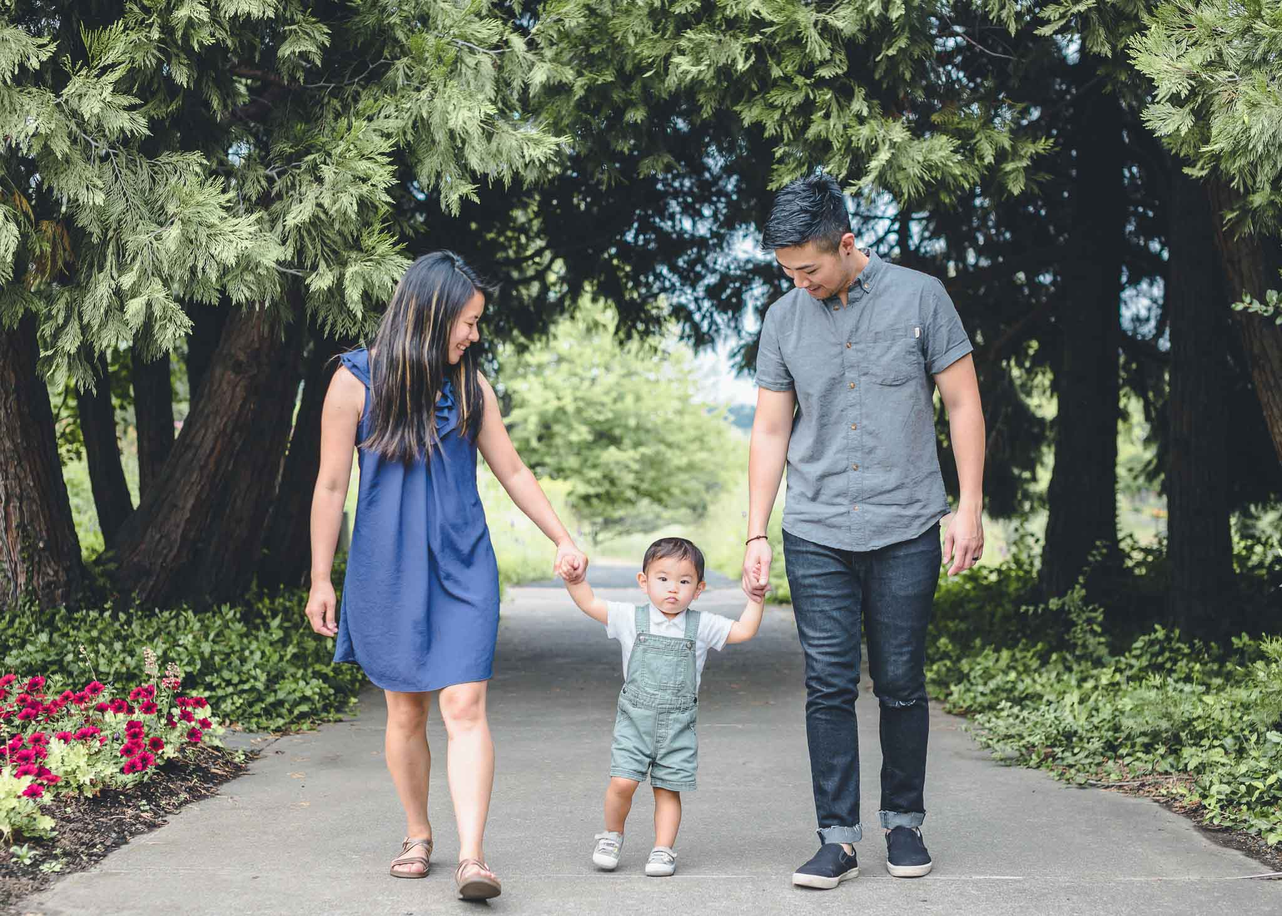
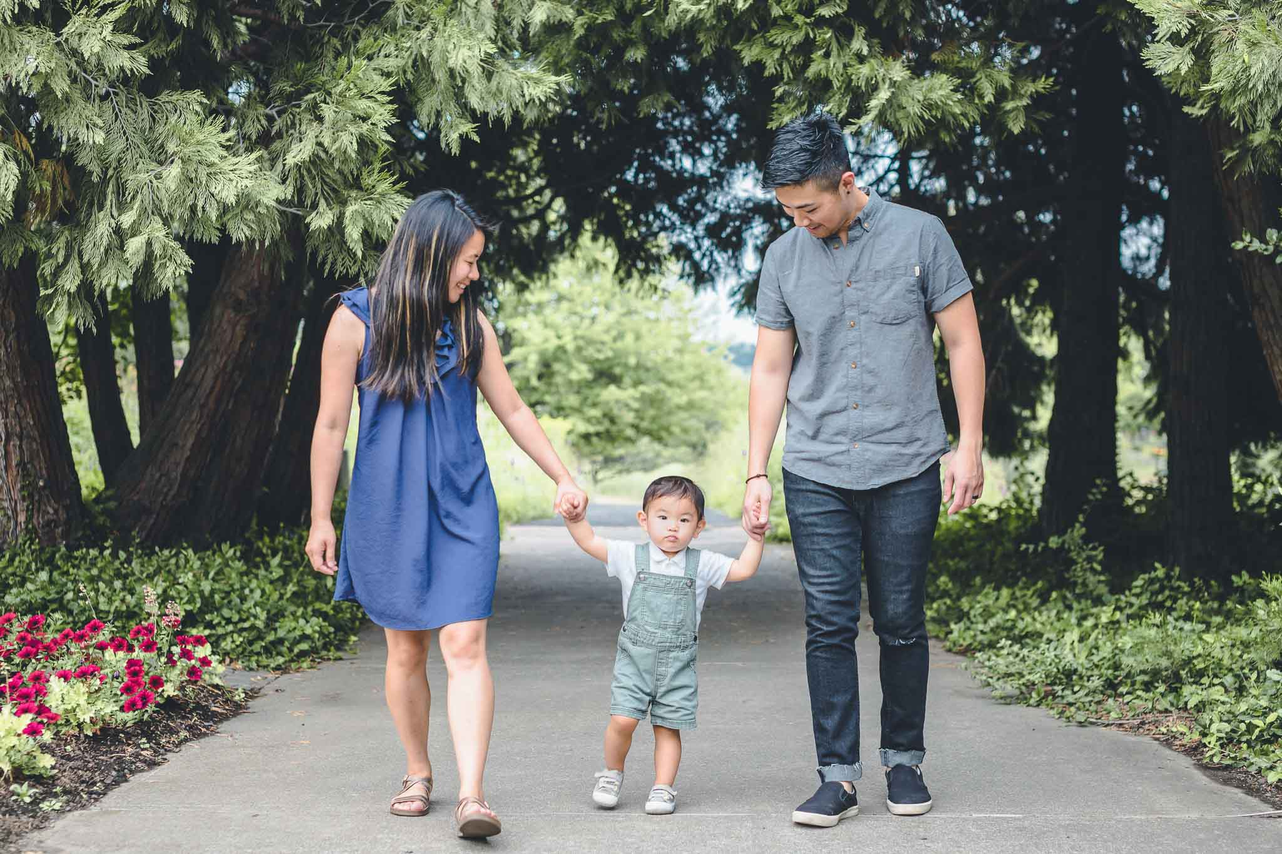
Resizing images and helpful input from Gabe

diff --git a/src/App.css b/src/App.css
@@ -7,7 +7,7 @@
 }
 
 .unorder-list {
-	line-height: 120%;
+	line-height: 140%;
 }
 
 .container .mb-intro {
@@ -101,40 +101,47 @@ p, h3 {
 	height: 103vh;
 }
 
-.button, buttonMore {
-	-moz-appearance: none;
-	-webkit-appearance: none;
-	-ms-appearance: none;
-	appearance: none;
-	-moz-transition: background-color 0.2s ease-in-out;
-	-webkit-transition: background-color 0.2s ease-in-out;
-	-ms-transition: background-color 0.2s ease-in-out;
-	transition: background-color 0.2s ease-in-out;
-	border: 0;
-	border-radius: 3.5em;
-	color: #ffffff;
-	cursor: pointer;
-	display: inline-block;
-	height: 3.5em;
-	line-height: 3.5em;
-	outline: 0;
-	padding: 0 2em 0 2em;
-	position: relative;
-	text-align: center;
-	text-decoration: none;
+.arrow,
+.arrow:before {
+	position: absolute;
+	left: 50%;
+	bottom: 0;
+}
+.arrow {
+	width: 40px;
+	height: 40px;
+	bottom: 7em;
+	margin: -20px 0 0 -20px;
+	transform: rotate(45deg);
+	border-left: none;
+	border-top: none;
+	border-right: 2px black solid;
+	border-bottom: 2px black solid;
 }
 
-input[type="button"].down, .button.down, button.down {
-	height: 5em;
-	margin: 0 auto;
-	background-image: url("./images/arrow-down-solid.svg");
-	background-position: center center;
-	background-repeat: no-repeat;
-	margin-bottom: 2em;
+.arrow:before {
+	content: "";
+	width: 20px;
+	height: 20px;
+	top: 50%;
+	margin: -10px 0 0 -10px;
+	border-left: none;
+	border-top: none;
+	border-right: 1px black solid;
+	border-bottom: 1px black solid;
+	animation-duration: 2s;
+	animation-iteration-count: infinite;
+	animation-name: arrow;
 }
 
-.button.style2:hover, button.style2:hover {
-	background-color: rgba(229, 230, 231, 0.375);
+@keyframes arrow {
+	0% {
+		opacity: 1;
+	}
+	100% {
+		opacity: 0;
+		transform: translate(-10px, -10px);
+	}
 }
 
 /* ===========================

diff --git a/src/components/molecules/CarouselIntroItem.js b/src/components/molecules/CarouselIntroItem.js
@@ -19,18 +19,18 @@ const CarouselIntroItem = ({ view, active }) => {
 										<MDBCol className="mb-4 intro-container" style={{ border: 'solid', backgroundColor: '#2715151f', color: '#FFFFFF' }}>
 											<MDBCol className="p-md-2 text-center text-md-left" md={12}>
 												<div>
-													<h4 className="display-4 intro-title">Peter Peck</h4>
-													<h3 className="display-5 intro-subtitle">Photography | Travel | Life</h3>
+													<h4 className="display-4 intro-title text-light">Peter Peck</h4>
+													<h3 className="display-5 intro-subtitle text-light">Photography | Travel</h3>
 												</div>
 												<hr className="hr-light" />
 												<NavBarLink link="/projects">
-													<MDBBtn type="button" className="m-1 bg-white" color="white" onClick={() => trackGA('Home_Page_All_Projects')}>All Projects</MDBBtn>
+													<MDBBtn type="button" className="m-1" color="white" onClick={() => trackGA('Home_Page_All_Projects')}>All Projects</MDBBtn>
 												</NavBarLink>
 												<NavBarLink link="/about">
 													<MDBBtn type="button" className="m-1" color="danger" onClick={() => trackGA('About_Me')}>About Me</MDBBtn>
 												</NavBarLink>
 												<AnchorLink href="#footer_anchor">
-													<MDBBtn type="button" className="m-1 text-white" outline color="white" onClick={() => trackGA('Contact_Anchor')}>Contact</MDBBtn>
+													<MDBBtn type="button" className="m-1" color="white" onClick={() => trackGA('Contact_Anchor')}>Contact</MDBBtn>
 												</AnchorLink>
 											</MDBCol>
 										</MDBCol>

diff --git a/src/components/templates/AboutPage.js b/src/components/templates/AboutPage.js
@@ -150,7 +150,7 @@ const AboutPage = () => {
 								<li className="languages-info-list">Github/Gitlab</li>
 								<li className="languages-info-list">CI/CD</li>
 								<li className="languages-info-list">Agile/Scrum Methodologies</li>
-								<li className="languages-info-list">Visual Studio Codes</li>
+								<li className="languages-info-list">Visual Studio Code</li>
 							</span>
 						</MDBCol>
 					</MDBRow>
@@ -212,7 +212,7 @@ const AboutPage = () => {
 								<li className="software-info-list">Volleyball</li>
 								<li className="software-info-list">Disc golf</li>
 								<li className="software-info-list">Ping pong</li>
-								<li className="software-info-list">Billard</li>
+								<li className="software-info-list">Billards</li>
 								<li className="software-info-list">Martial arts</li>
 								<li className="camera-info-list">Playing the piano</li>
 							</span>

diff --git a/src/components/molecules/CarouselCaption.js b/src/components/molecules/CarouselCaption.js
@@ -1,5 +1,4 @@
 import AnchorLink from 'react-anchor-link-smooth-scroll';
-import { Bounce } from 'react-motions';
 import FadeIn from 'react-fade-in';
 import { trackGA } from './../../utils/helpers/functions';
 
@@ -7,16 +6,14 @@ const CarouselCaption = () => {
 	return (
 		<div className="carousel-caption">
 			<FadeIn delay={2000}>
-				<Bounce duration={2} infinite>
-					<AnchorLink
-						id="buttonDown"
-						className="buttonMore button style2 down"
-						href='#headerbox'
-						onClick={
-							() => trackGA('Portfolio_Arrow_Down_Home_Page')
-						}
-					/>
-				</Bounce>
+				<AnchorLink
+					id="buttonDown"
+					className="arrow"
+					href='#headerbox'
+					onClick={
+						() => trackGA('Portfolio_Arrow_Down_Home_Page')
+					}
+				/>
 			</FadeIn>
 		</div>
 	);

diff --git a/src/utils/photo_projects/FEATURE_PORTFOLIO.js b/src/utils/photo_projects/FEATURE_PORTFOLIO.js
@@ -122,6 +122,8 @@ for(var jj = 1; jj <= WashingtonObjLenth; jj++){
 
 imageArray = [...shuffleArray(featureArray)];
 
+const featureIdaho = [51];
+
 const idaho = importAll(require.context('../../images/feature/idaho/landscape', false, /\.(jpg)$/));
 const idahoObjLenth = Object.keys(idaho).length;
 for(var gj = 1; gj <= idahoObjLenth; gj++){
@@ -132,6 +134,10 @@ for(var gj = 1; gj <= idahoObjLenth; gj++){
 		height: 2,
 		width: 3
 	}
+	if(featureIdaho.includes(gj)){
+		idahoObj['category'].push('*');
+	}
+
 	featureArray.push(idahoObj);
 }
 
